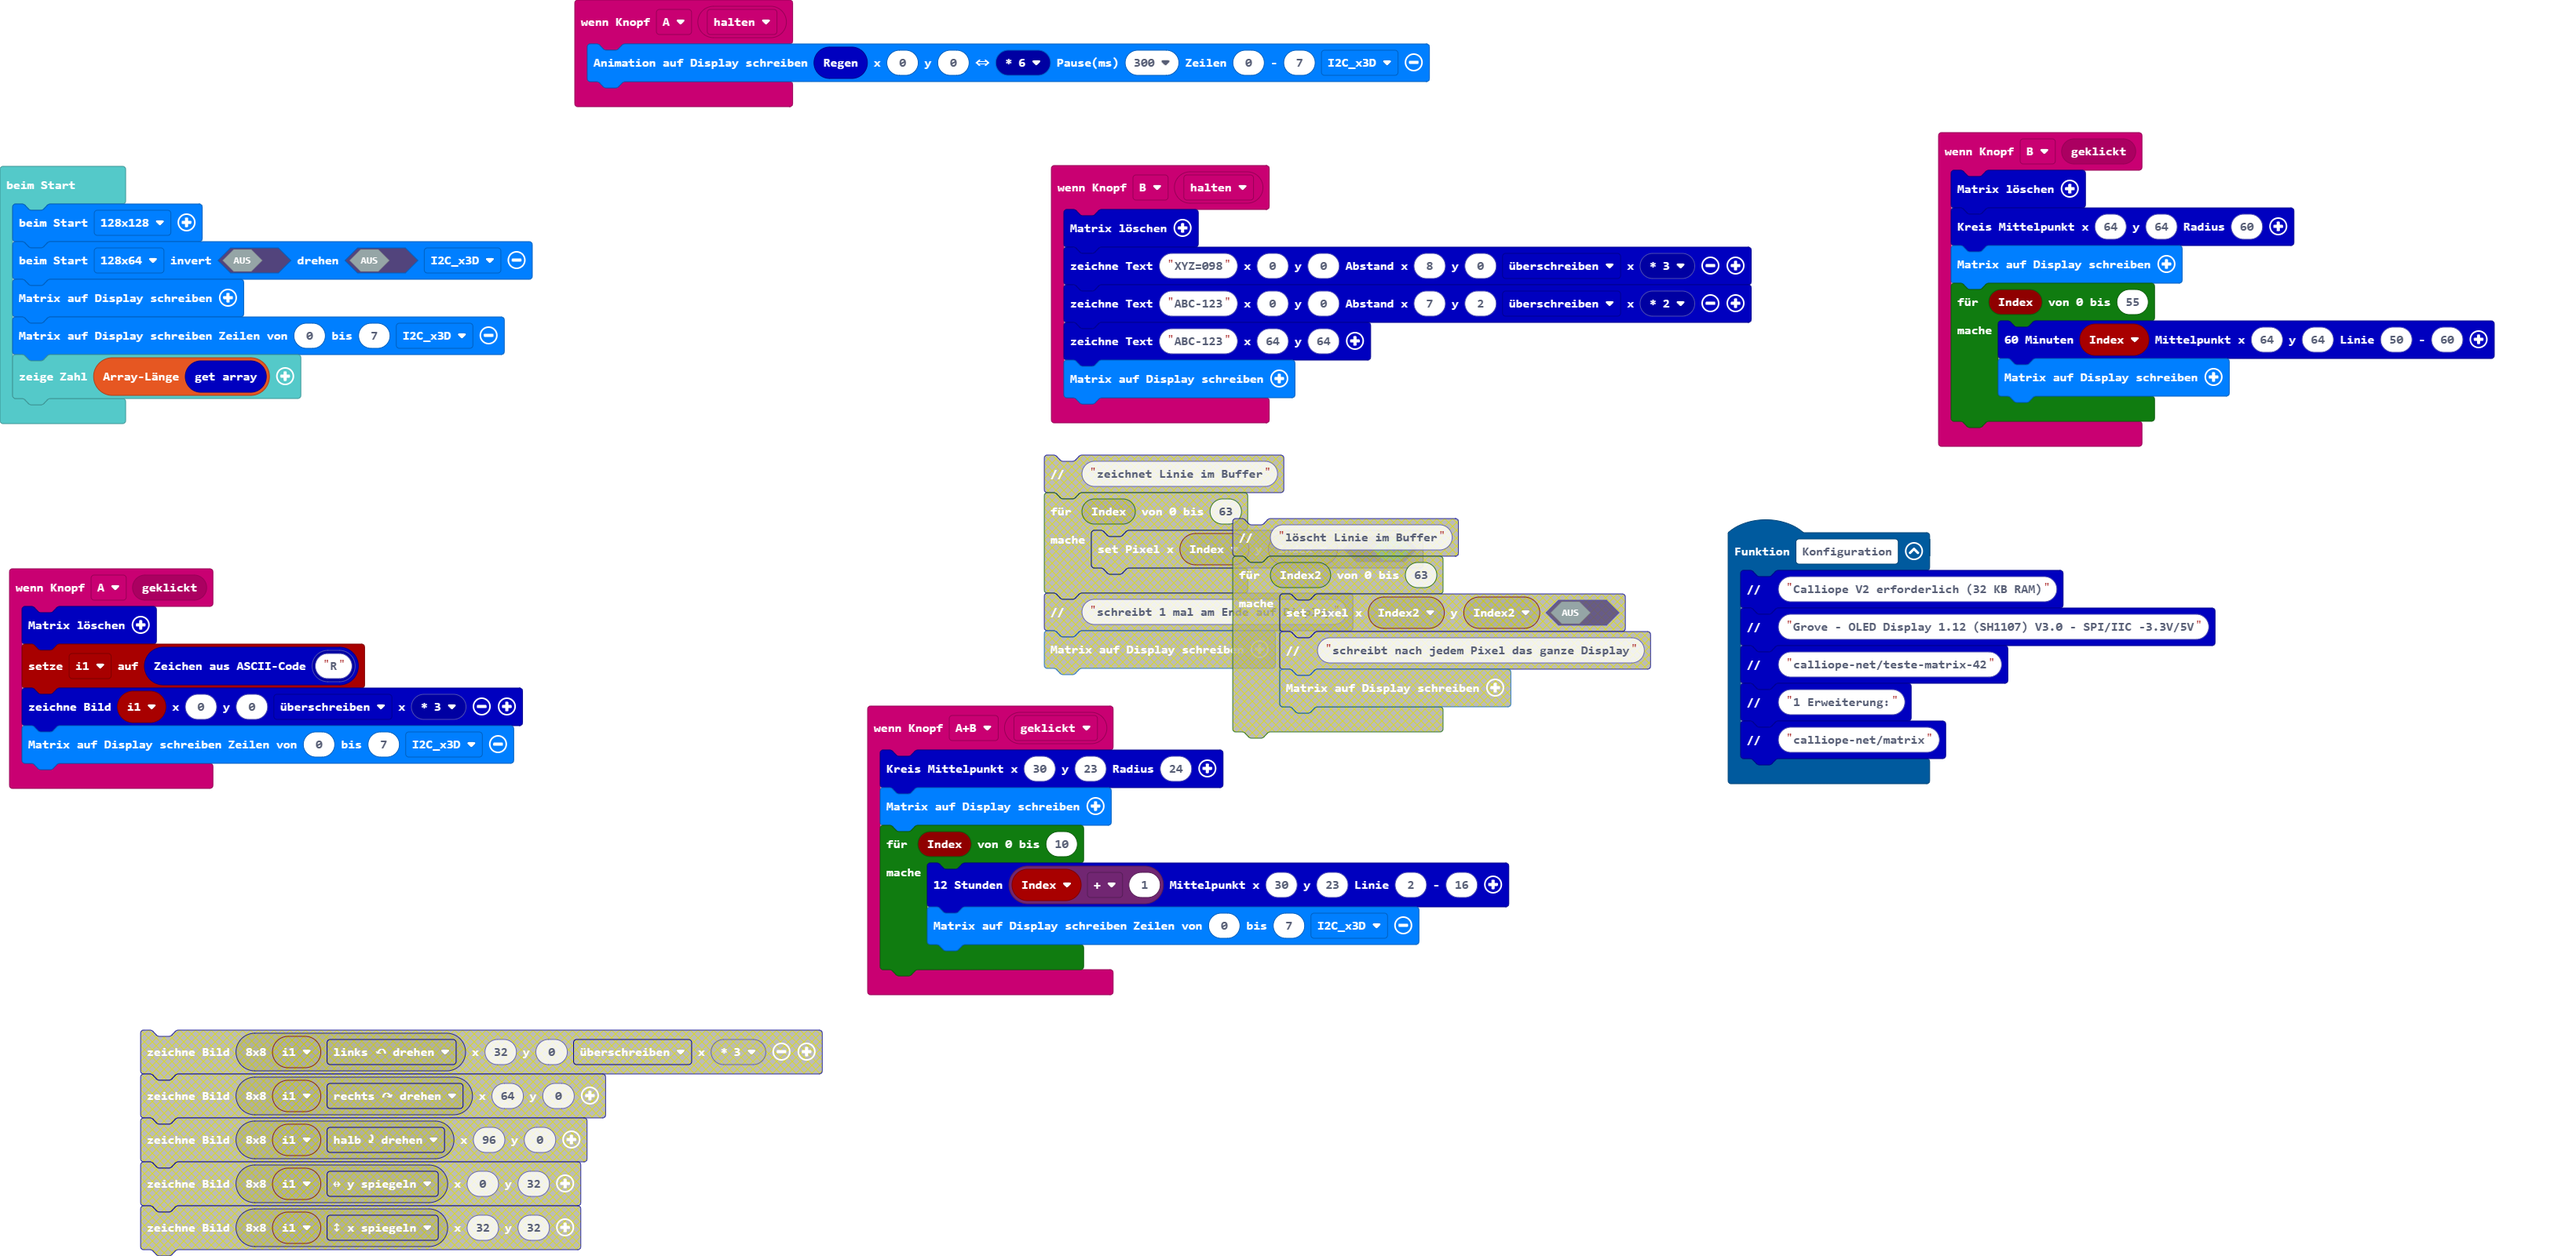
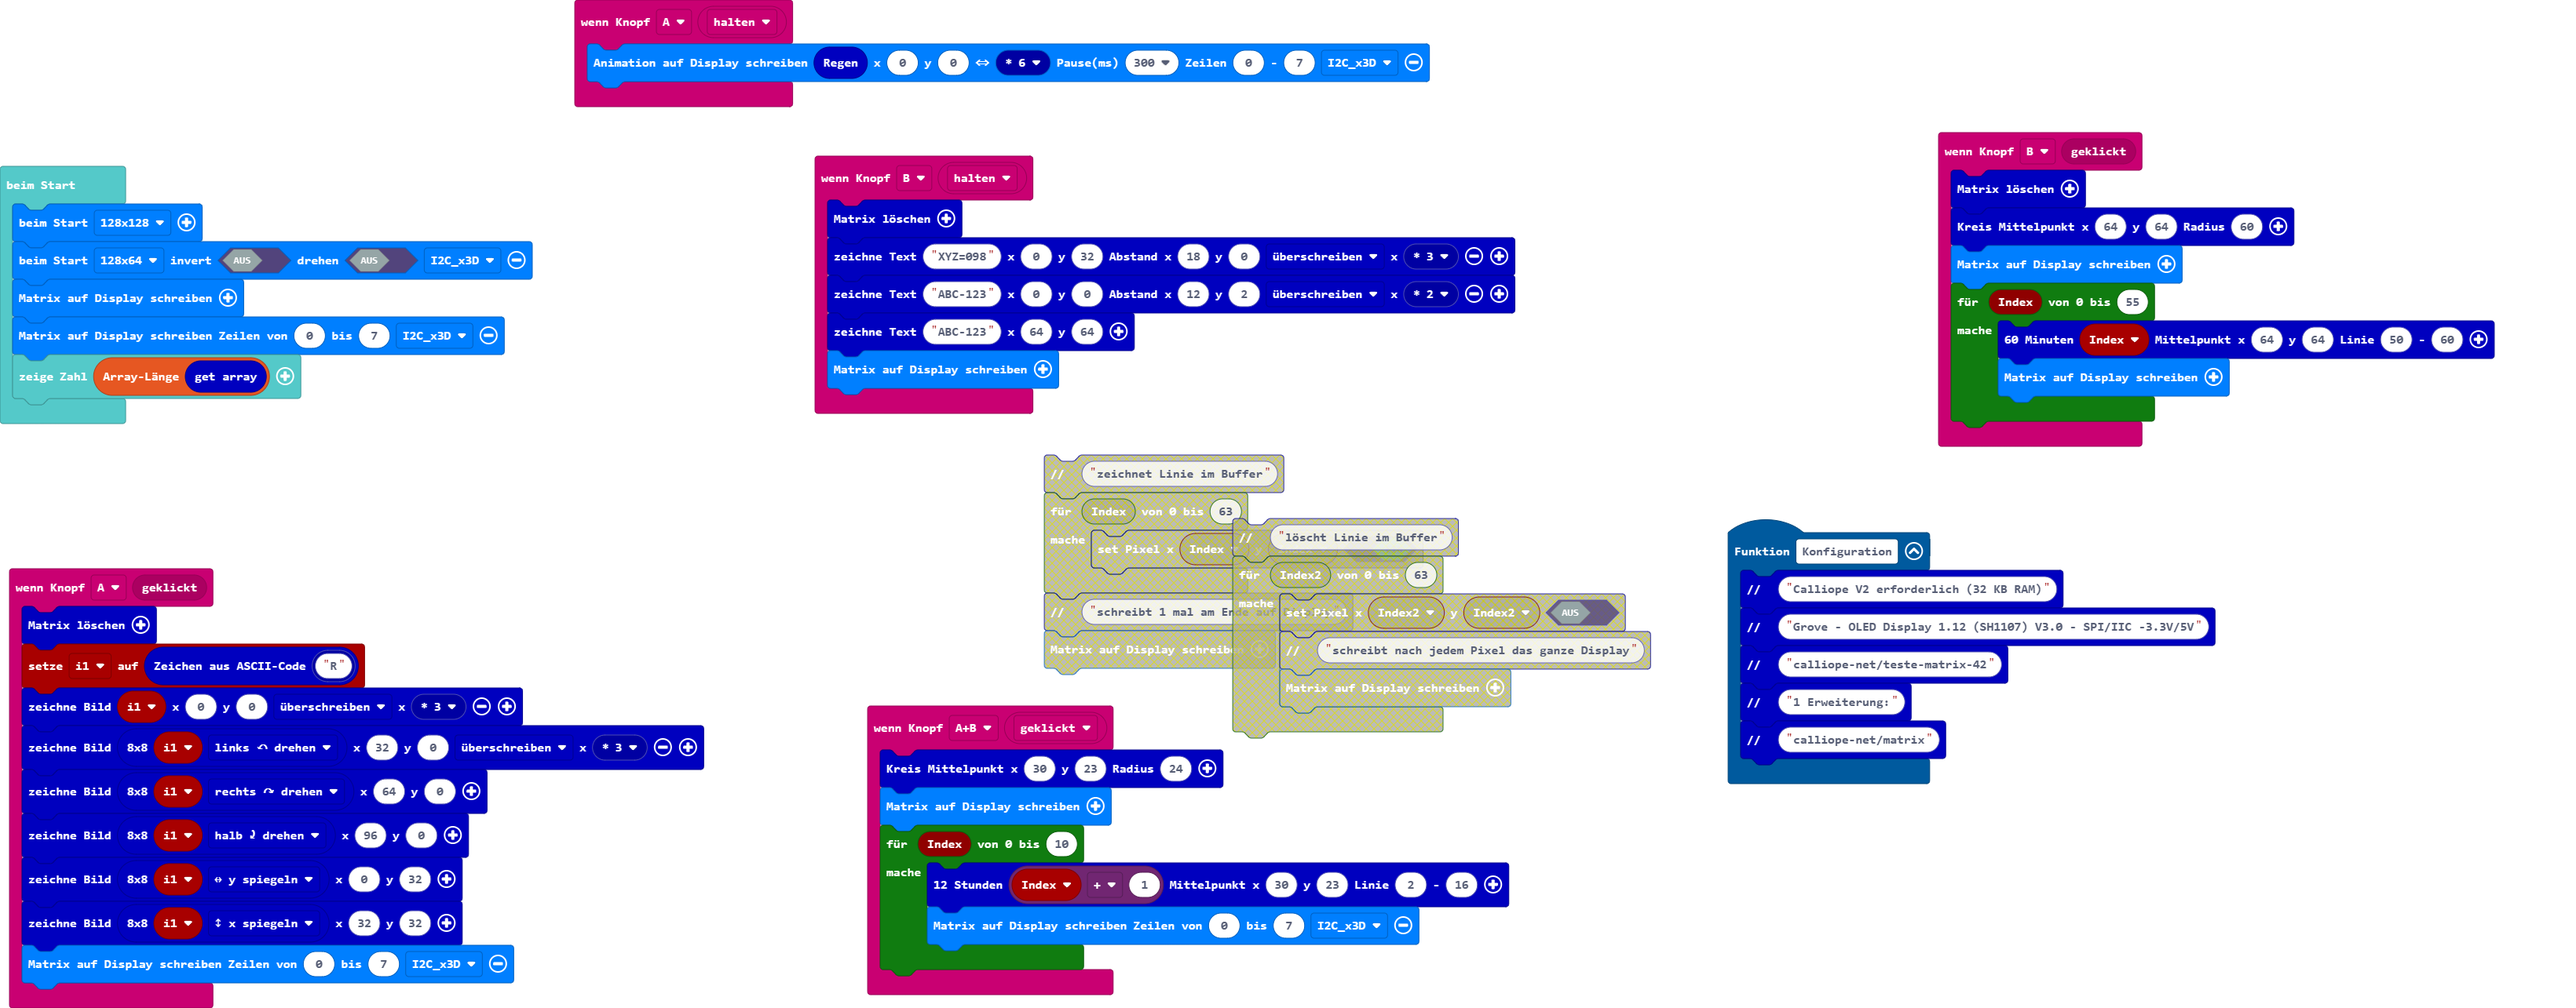
Aktualisiere pxt.json, main.blocks, main.ts

diff --git a/main.ts b/main.ts
@@ -10,6 +10,11 @@ input.onButtonEvent(Button.A, input.buttonEventClick(), function () {
     matrix.clearMatrix()
     i1 = matrix.charImage(matrix.charCode("R"))
     matrix.writeImage(i1, 0, 0, matrix.eTransparent.u, matrix.oled_eFaktor(matrix.eFaktor.f3))
+    matrix.writeImage(matrix.imageDrehen(i1, matrix.eZeichenDrehen.links), 32, 0, matrix.eTransparent.u, matrix.oled_eFaktor(matrix.eFaktor.f3))
+    matrix.writeImage(matrix.imageDrehen(i1, matrix.eZeichenDrehen.rechts), 64, 0)
+    matrix.writeImage(matrix.imageDrehen(i1, matrix.eZeichenDrehen.halb), 96, 0)
+    matrix.writeImage(matrix.imageDrehen(i1, matrix.eZeichenDrehen.yspiegeln), 0, 32)
+    matrix.writeImage(matrix.imageDrehen(i1, matrix.eZeichenDrehen.xspiegeln), 32, 32)
     matrix.writeDisplay(0, 7, matrix.eI2C.I2C_x3D)
 })
 input.onButtonEvent(Button.B, input.buttonEventClick(), function () {
@@ -26,8 +31,8 @@ input.onButtonEvent(Button.A, ButtonEvent.Hold, function () {
 })
 input.onButtonEvent(Button.B, ButtonEvent.Hold, function () {
     matrix.clearMatrix()
-    matrix.writeTextImageArray("XYZ=098", 0, 0, 8, 0, matrix.eTransparent.u, matrix.oled_eFaktor(matrix.eFaktor.f3))
-    matrix.writeTextImageArray("ABC-123", 0, 0, 7, 2, matrix.eTransparent.u, matrix.oled_eFaktor(matrix.eFaktor.f2))
+    matrix.writeTextImageArray("XYZ=098", 0, 32, 18, 0, matrix.eTransparent.u, matrix.oled_eFaktor(matrix.eFaktor.f3))
+    matrix.writeTextImageArray("ABC-123", 0, 0, 12, 2, matrix.eTransparent.u, matrix.oled_eFaktor(matrix.eFaktor.f2))
     matrix.writeTextImageArray("ABC-123", 64, 64)
     matrix.writeDisplay()
 })
